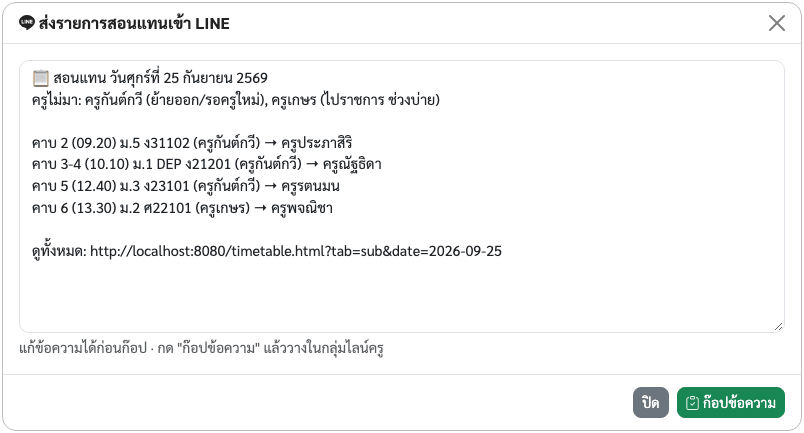
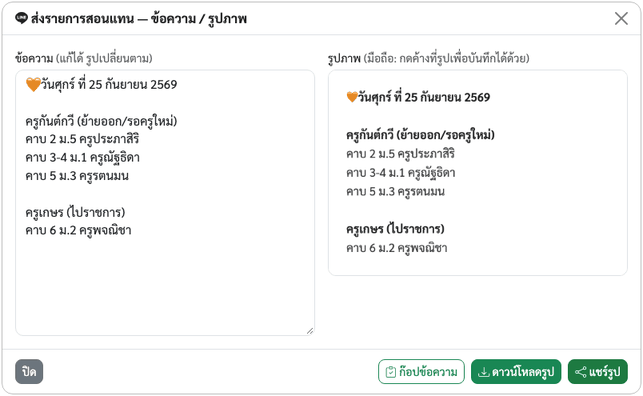
สอนแทน: ข้อความ/รูปแบบที่ใช้ในกลุ่มไลน์ครู + ดาวน์โหลดรูป / แชร์รูป
- รูปแบบเดียวกับที่โรงเรียนใช้: "🧡วันพฤหัสบดี ที่ 24 กันยายน 2569" · แยกกลุ่มตามครูที่ไม่มา
  "ครูณัฐธิดา (ไปราชการ)" · "คาบ 1-2 ม.5 ครูเปี่ยมจิตร" (คาบติดกัน ห้อง+ครูแทนเดียวกันรวมช่วง)
- หน้าต่าง "ส่ง LINE / รูปภาพ": แก้ข้อความได้ + รูปตัวอย่างเปลี่ยนตาม (canvas 1080 px พื้นขาว หัวข้อตัวหนา)
- ดาวน์โหลดรูป PNG (คอม/มือถือ) · แชร์รูป (เครื่องที่รองรับ Web Share เลือกส่ง LINE ได้ทันที) · ก๊อปข้อความเหมือนเดิม
- คู่มือ: อัปเดตขั้นตอน + ภาพประกอบ

diff --git a/public/js/tt-subs.js b/public/js/tt-subs.js
@@ -274,7 +274,7 @@ function renderSubsBody() {
         <span class="badge ${done < todo.length ? 'bg-danger' : 'bg-success'}">จัดแล้ว ${done}/${todo.length}</span></div>
       ${admin && todo.length ? `<button class="btn btn-sm btn-primary" onclick="autoAssign()"><i class="bi bi-magic"></i> จัดอัตโนมัติ</button>
         <button class="btn btn-sm btn-outline-secondary" onclick="clearDay()">ล้าง</button>` : ''}
-      ${todo.length ? `<button class="btn btn-sm btn-success" onclick="openLineModal()"><i class="bi bi-line"></i> ส่ง LINE</button>` : ''}
+      ${todo.length ? `<button class="btn btn-sm btn-success" onclick="openLineModal()"><i class="bi bi-line"></i> ส่ง LINE / รูปภาพ</button>` : ''}
     </div>
     ${needs.length ? `<div class="table-responsive"><table class="table table-sm align-middle mb-1 sub-table">
       <thead class="table-light"><tr><th class="text-center">คาบ</th><th>ชั้น</th><th>วิชา</th><th class="d-none d-md-table-cell">ครูที่ไม่มา</th><th>สอนแทนโดย</th></tr></thead>
@@ -368,37 +368,114 @@ async function deleteAbsence(id) {
   } catch (e) { alert(e.message); }
 }
 
-/* ── ส่ง LINE (แบบเดียวกับหน้าแจ้งไลน์ครูเวร: ก๊อปข้อความ → เปิดไลน์ → วางในกลุ่มครู) ── */
+/* ── ส่ง LINE / ดาวน์โหลดรูป — รูปแบบที่โรงเรียนใช้ในกลุ่มไลน์ครู:
+   🧡วันพฤหัสบดี ที่ 24 กันยายน 2569 · แยกตามครูที่ไม่มา "ครูณัฐธิดา (ไปราชการ)" · "คาบ 1-2 ม.5 ครูเปี่ยมจิตร" ── */
 function lineText() {
-  const date = SUB.date, P = Object.fromEntries(periodsOf().map(x => [x.no, x]));
+  const date = SUB.date, d = dateOf(date);
   const saved = new Map(savedOn(date).map(s => [`${s.period}-${s.lesson_id}`, s]));
-  const out = [`📋 สอนแทน ${formatThaiDateFull(date).replace('พ.ศ. ', '')}`];
-  const abs = absencesOn(date);
-  if (abs.length) out.push('ครูไม่มา: ' + abs.map(a => `${tShort(a.teacher_id)} (${a.reason || 'ไม่มา'}${a.periods.length ? ' ' + periodLabel(a.periods) : ''})`).join(', '));
-  const rows = [];                                   // คาบติดกัน วิชาเดียวกัน ครูแทนคนเดียวกัน → รวมเป็น "คาบ 3-4"
-  needsOn(date).filter(n => !n.skip).forEach(n => {
-    const s = saved.get(n.key);
-    const who = !s ? '❗ยังไม่จัด' : s.sub_id ? tShort(s.sub_id) : 'ไม่มีครูแทน';
-    const last = rows[rows.length - 1];
-    if (last && last.l.id === n.l.id && last.p2 === n.p - 1 && last.who === who) { last.p2 = n.p; return; }
-    rows.push({ l: n.l, p1: n.p, p2: n.p, who, gone: n.gone, note: s?.note || '' });
+  const out = [`🧡วัน${THAI_DAYS[d.getDay()]} ที่ ${d.getDate()} ${THAI_MONTHS[d.getMonth()]} ${d.getFullYear() + 543}`];
+  const needs = needsOn(date).filter(n => !n.skip), abs = absencesOn(date);
+  const order = [...new Set(abs.map(a => a.teacher_id))];                 // เรียงตามบันทึกครูไม่มา
+  needs.forEach(n => { if (!order.includes(n.absent)) order.push(n.absent); });
+  order.forEach(tid => {
+    const mine = needs.filter(n => n.absent === tid).sort((a, b) => a.p - b.p);
+    if (!mine.length) return;                                             // ไม่มา แต่วันนั้นไม่มีคาบต้องจัด → ไม่ต้องแสดง
+    const reason = abs.find(a => a.teacher_id === tid)?.reason;
+    out.push('', `${tShort(tid)}${reason ? ` (${reason})` : ''}`);
+    const rows = [];                                                      // คาบติดกัน ห้องเดียวกัน ครูแทนคนเดียวกัน → "คาบ 1-2"
+    mine.forEach(n => {
+      const s = saved.get(n.key), cls = classLabel({ ...n.l, track: '' });
+      const who = !s ? '❗ยังไม่จัด' : s.sub_id ? tShort(s.sub_id) : `ไม่มีครูแทน${s.note ? ` (${s.note})` : ''}`;
+      const last = rows[rows.length - 1];
+      if (last && last.cls === cls && last.who === who && last.p2 === n.p - 1) { last.p2 = n.p; return; }
+      rows.push({ p1: n.p, p2: n.p, cls, who });
+    });
+    rows.forEach(r => out.push(`คาบ ${r.p1 === r.p2 ? r.p1 : r.p1 + '-' + r.p2} ${r.cls} ${r.who}`));
   });
-  out.push('');
-  rows.forEach(r => out.push(`คาบ ${r.p1 === r.p2 ? r.p1 : r.p1 + '-' + r.p2} (${P[r.p1]?.start || ''}) ${classLabel(r.l)} ${lessonName(r.l)}` +
-    ` (${r.gone.map(tShort).join(', ')}) → ${r.who}${r.note ? ' · ' + r.note : ''}`));
-  out.push('', 'ดูทั้งหมด: ' + location.origin + '/timetable.html?tab=sub&date=' + date);
+  if (out.length === 1) out.push('', 'ไม่มีคาบที่ต้องจัดครูสอนแทน');
   return out.join('\n');
 }
 
 function openLineModal() {
   const left = needsOn(SUB.date).filter(n => !n.skip && !savedOn(SUB.date).some(s => `${s.period}-${s.lesson_id}` === n.key)).length;
-  showModal('<i class="bi bi-line"></i> ส่งรายการสอนแทนเข้า LINE', `
+  showModal('<i class="bi bi-line"></i> ส่งรายการสอนแทน — ข้อความ / รูปภาพ', `
     ${left ? `<div class="alert alert-warning py-1 px-2 small">ยังไม่ได้จัด ${left} คาบ — ในข้อความจะขึ้นว่า "❗ยังไม่จัด"</div>` : ''}
-    <textarea id="lineMsg" class="form-control" rows="12" style="font-size:.9rem">${esc(lineText())}</textarea>
-    <div class="small text-muted mt-1">แก้ข้อความได้ก่อนก๊อป · กด "ก๊อปข้อความ" แล้ววางในกลุ่มไลน์ครู</div>`,
-    `<button class="btn btn-secondary btn-sm" data-bs-dismiss="modal">ปิด</button>
+    <div class="row g-3">
+      <div class="col-md-6">
+        <label class="form-label small mb-1">ข้อความ <span class="text-muted">(แก้ได้ รูปเปลี่ยนตาม)</span></label>
+        <textarea id="lineMsg" class="form-control" rows="14" style="font-size:.95rem" oninput="updateSubPreview()">${esc(lineText())}</textarea>
+      </div>
+      <div class="col-md-6">
+        <label class="form-label small mb-1">รูปภาพ <span class="text-muted">(มือถือ: กดค้างที่รูปเพื่อบันทึกได้ด้วย)</span></label>
+        <img id="subImgPrev" class="img-fluid border rounded w-100" alt="รูปรายการสอนแทน" style="background:#fff">
+      </div>
+    </div>`,
+    `<button class="btn btn-secondary btn-sm me-auto" data-bs-dismiss="modal">ปิด</button>
      <a class="btn btn-outline-success btn-sm d-none" id="lineOpen" href="https://line.me/R/" target="_blank" rel="noopener"><i class="bi bi-line"></i> เปิดไลน์</a>
-     <button class="btn btn-success btn-sm" onclick="copyLine()"><i class="bi bi-clipboard-check"></i> ก๊อปข้อความ</button>`);
+     <button class="btn btn-outline-success btn-sm" onclick="copyLine()"><i class="bi bi-clipboard-check"></i> ก๊อปข้อความ</button>
+     <button class="btn btn-success btn-sm" onclick="downloadSubImage()"><i class="bi bi-download"></i> ดาวน์โหลดรูป</button>
+     ${canShareFiles() ? '<button class="btn btn-primary btn-sm" onclick="shareSubImage()"><i class="bi bi-share"></i> แชร์รูป</button>' : ''}`);
+  updateSubPreview();
+}
+
+// วาดข้อความเป็นรูป (พื้นขาว ตัวหนังสือเทาเข้ม แบบรูปที่ใช้ในกลุ่มไลน์) — กว้าง 1080 px ชัดทั้งมือถือและคอม
+async function subImageCanvas(text) {
+  try { await document.fonts.load('400 42px Sarabun'); await document.fonts.load('600 42px Sarabun'); } catch (e) {}
+  const W = 1080, PAD = 64, FS = 42, LH = Math.round(FS * 1.62), MAXW = W - PAD * 2;
+  const cv = document.createElement('canvas'), cx = cv.getContext('2d');
+  const font = w => `${w} ${FS}px Sarabun, "Noto Sans Thai", Thonburi, sans-serif`;
+  cx.font = font(600);
+  const lines = [];                                        // ตัดบรรทัดที่ยาวเกินรูป (ตัดที่ช่องว่างก่อน ไม่มีก็ตัดทีละตัวอักษร)
+  text.replace(/\r/g, '').split('\n').forEach(raw => {
+    let cur = '';
+    for (const part of raw.split(/(\s+)/)) {
+      if (cx.measureText(cur + part).width <= MAXW) { cur += part; continue; }
+      if (cur.trim()) { lines.push(cur.trimEnd()); cur = ''; }
+      for (const ch of part.trimStart()) {
+        if (cx.measureText(cur + ch).width > MAXW) { lines.push(cur); cur = ''; }
+        cur += ch;
+      }
+    }
+    lines.push(cur);
+  });
+  cv.width = W; cv.height = PAD * 2 + lines.length * LH;
+  cx.fillStyle = '#ffffff'; cx.fillRect(0, 0, cv.width, cv.height);
+  cx.textBaseline = 'middle';
+  lines.forEach((ln, i) => {
+    const head = i === 0 || (ln.trim() && !/^คาบ\s/.test(ln) && (i === 0 || !lines[i - 1].trim()));   // หัววัน / ชื่อครูที่ไม่มา
+    cx.font = font(head ? 600 : 400); cx.fillStyle = head ? '#1f1f1f' : '#3d3d3d';
+    cx.fillText(ln, PAD, PAD + i * LH + LH / 2);
+  });
+  return cv;
+}
+let subPrevTimer = null;
+function updateSubPreview() {
+  clearTimeout(subPrevTimer);
+  subPrevTimer = setTimeout(async () => {
+    const img = el('subImgPrev'), ta = el('lineMsg');
+    if (img && ta) img.src = (await subImageCanvas(ta.value)).toDataURL('image/png');
+  }, 250);
+}
+const subImageName = () => `สอนแทน-${SUB.date}.png`;
+async function subImageBlob() {
+  const cv = await subImageCanvas(el('lineMsg').value);
+  return new Promise(res => cv.toBlob(res, 'image/png'));
+}
+async function downloadSubImage() {
+  const url = URL.createObjectURL(await subImageBlob());
+  const a = Object.assign(document.createElement('a'), { href: url, download: subImageName() });
+  document.body.appendChild(a); a.click(); a.remove();
+  setTimeout(() => URL.revokeObjectURL(url), 5000);
+  toastEd('ดาวน์โหลดรูปแล้ว — ส่งในกลุ่มไลน์ได้เลย');
+}
+// มือถือ: เปิดหน้าแชร์ของเครื่อง (เลือก LINE ได้ทันที) · ไม่รองรับ → ดาวน์โหลดแทน
+function canShareFiles() {
+  try { return !!(navigator.canShare && navigator.canShare({ files: [new File(['x'], 'x.png', { type: 'image/png' })] })); } catch (e) { return false; }
+}
+async function shareSubImage() {
+  const file = new File([await subImageBlob()], subImageName(), { type: 'image/png' });
+  try { await navigator.share({ files: [file], title: 'สอนแทน' }); }
+  catch (e) { if (e.name !== 'AbortError') downloadSubImage(); }
 }
 
 async function copyLine() {

diff --git a/public/timetable-guide.html b/public/timetable-guide.html
@@ -307,12 +307,14 @@
       <div class="two">
         <div>
           <ul>
-            <li>กด <b>ส่ง LINE</b> → <b>ก๊อปข้อความ</b> → <b>เปิดไลน์</b> → วางในกลุ่มครู (คาบติดกันรวมเป็น "คาบ 3-4" ให้)</li>
+            <li>กด <b>ส่ง LINE / รูปภาพ</b> ได้ข้อความแบบที่ใช้ในกลุ่มไลน์ครู (🧡วัน… แยกตามครูที่ไม่มา · "คาบ 1-2 ม.5 ครู…") พร้อมรูปตัวอย่าง
+              แก้ข้อความได้ รูปเปลี่ยนตาม</li>
+            <li><b>ดาวน์โหลดรูป</b> (คอม/มือถือ) หรือ <b>แชร์รูป</b> (มือถือ เลือกส่งเข้า LINE ได้ทันที) · หรือ <b>ก๊อปข้อความ</b> → <b>เปิดไลน์</b> → วาง</li>
             <li>กด <b>พิมพ์</b> (ปุ่มเขียวด้านบน) ได้ "บันทึกการจัดครูสอนแทน" A4 มีช่องลงชื่อครูสอนแทน ผู้จัด และผู้อำนวยการ</li>
             <li>ครูที่ได้สอนแทนจะเห็นกล่องเหลือง <b>"คาบสอนแทนของคุณ"</b> ในหน้าแรกและในตารางของตัวเอง · ผอ. เห็นสรุปในหน้าภาพรวมของ ผอ.</li>
           </ul>
         </div>
-        <figure><img src="/img/guide/subline.png" alt="ส่ง LINE" loading="lazy"><figcaption>ข้อความพร้อมส่ง LINE</figcaption></figure>
+        <figure><img src="/img/guide/subline.png" alt="ส่ง LINE" loading="lazy"><figcaption>ข้อความ + รูปพร้อมส่ง LINE</figcaption></figure>
       </div>
       <figure><img src="/img/guide/subsheet.png" alt="ใบบันทึกการจัดครูสอนแทน" loading="lazy" style="max-width:min(560px,100%)"><figcaption>ใบบันทึกการจัดครูสอนแทน (ตัวอย่างส่วนบน)</figcaption></figure>
     </div></div>

diff --git a/public/timetable.html b/public/timetable.html
@@ -561,6 +561,6 @@ async function printDoc(all) {
 </script>
 <script src="/js/tt-editor.js?v=15"></script>
 <script src="/js/tt-solver.js?v=3"></script>
-<script src="/js/tt-subs.js?v=3"></script>
+<script src="/js/tt-subs.js?v=4"></script>
 </body>
 </html>
